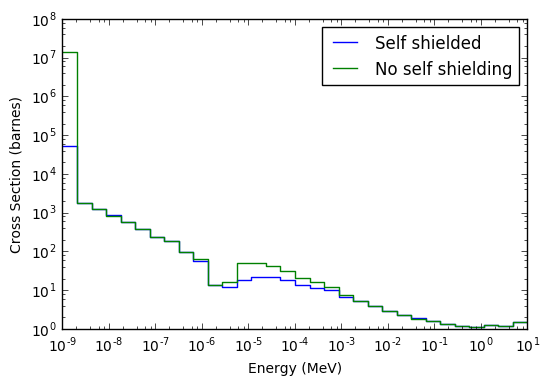
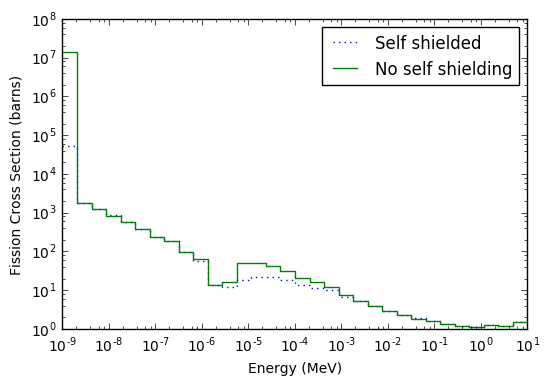
commiting revisions

diff --git a/XSGen.tex b/XSGen.tex
@@ -27,7 +27,7 @@
 \onehalfspacing
 
 \section{Introduction}
-Reactor simulation is an essential part of nuclear engineering. Modeling strategies can my categorized in three ways; low, medium, and high fidelity. Each of these models provides different benefits to a simulation but comes with costs to either accuracy or computational time.  
+Reactor simulation is an essential part of nuclear engineering. Modeling strategies may be categorized in three ways; low, medium, and high fidelity. Each of these models provides different benefits to a simulation but comes with costs to either accuracy or computational time.  
 
 Low fidelity models are those models that include no, or very limited,  physics at run time. These types of models work best for systems that have fixed behaviors. For example, a reactor during steady state operation. One type of low fidelity model is a recipe reactor. Here a recipe represents a predefined nuclide vector. These models use fixed input and output recipes. This means that they can simulate a reactor with a single computational operation. Some low fidelity models include interpolation techniques to build libraries on the fly. For example, interpolating between recipes for 3\% enriched fuel, and 4\% enriched fuel might be used to get a 3.5\% enriched fuel recipe. However, interpolating in this manner fails to directly capture any of the physical changes that might happen to the core by switching from either 3\% or 4\% enriched fuel to a 3.5\% fuel.
 
@@ -43,12 +43,12 @@ This work discusses a methodology, available in the XSgen software package, that
 
 XSgen couples several peices of software together to automate the generation of medium fidelity model datasets. The first piece of software is a high fidelity neutronics code. XSgen uses OpenMC as the software to perform this step. Flux is extracted from OpenMC\cite{class}. This is used by a cross section calculation software to generate one-group or multi-group cross-sections. This operation is performed by Pyne, the nuclear engineering toolkit\cite{pyne}. Finally, using either the one-group or multi-group cross-sections, a depletion solver is employed. Currently this role is satisfied by Origen2.2\cite{origen2}, and therefore one-group cross-sections are required.  
 
-This set of software is capable of providing the inputs that medium fidelity models could use; time dependent one group cross-sections, time dependent multi-group cross-sections, transmutation matricies, burnup rates,and  neutron production and destruction rates. XSgen stores the outputs of each of these software into a single large database, from there medium fidelity models can extract the information they need to derive a new dataset for use. This process is currently automated for only Bright-lite.
+This set of software is capable of providing the inputs that medium fidelity models could use; time dependent one-group cross-sections, time dependent multi-group cross-sections, transmutation matricies, burnup rates,and  neutron production and destruction rates. XSgen stores the outputs of each of these software into a single large database, from there medium fidelity models can extract the information they need to derive a new dataset for use. This process is currently automated for only Bright-lite.
 
 XSgen can also be used to set up more accurate comparisons between low fidelity model types, specifically recipe reactors, and medium fidelity reactor model types. This is made possible because XSgen can simulate a fuel bundle well past its effective lifetime in the core. The data generated by an XSgen run of this type contains enough information to build out an estimate of core isotopics at discharge using some reactor batch physics discussed later.
 
 \section{XSgen Workflow}
-The XSgen workflow is composed of three main parts as mentioned above; OpenMC, PyNE, Origen2.2. The first step is the simulation of the reactor core using a Monte Carlo neutron transport simulation. The main result of this is the flux spectrum. The spectrum is then collapsed with a cross section database and converted into a suite of one group cross sections for a reactor at a given time $t$ (days) after the reactor has started up. These one group cross sections are then used inside of
+The XSgen workflow is composed of three main parts as mentioned above; OpenMC, PyNE, Origen2.2. The first step is the simulation of the reactor core using a Monte Carlo neutron transport simulation. The main result of this is the flux spectrum. The spectrum is then collapsed with a cross section database and converted into a suite of one-group cross sections for a reactor at a given time $t$ (days) after the reactor has started up. These one-group cross sections are then used inside of
 a Bateman equation solve to calculate the burnup, neutron production, neutron destruction,
 and transmutation matrices. The value of $t$ is set by the user when XSgen is executed.
 The composition of the material at the end of the time step is then submitted back to
@@ -60,9 +60,9 @@ step specified is reached. This flow is displayed in Figure \ref{fig:flow}.
 \node (openmc) [process, below of = start]{OpenMC};
 \node (omcinput) [io, right of = openmc, xshift = 2cm]{OpenMC input file};
 \node (omcupdate) [process, left of = openmc, xshift = -3cm]{Update OpemMC material composition};
-\node (pyne) [process, below of = openmc]{Pyne};
+\node (pyne) [process, below of = openmc]{PyNE};
 \node (pynexs) [io, right of = pyne, xshift = 2cm]{Cross section data};
-\node (origen22) [process, below of = pyne]{Origen2.2};
+\node (origen22) [process, below of = pyne]{Origen 2.2};
 \node (compupdate) [process, left of = origen22, xshift = -3cm]{Update fuel composition};
 \node (timecheck) [decision, below of = origen22, yshift = -1.5cm]{End of simulated time?};
 \node (timeinc) [process, left of = timecheck, xshift = -3cm]{Increment time step};
@@ -87,15 +87,14 @@ step specified is reached. This flow is displayed in Figure \ref{fig:flow}.
 
 \subsection{OpenMC}
 OpenMC was used as the reference neutron transport software for modeling reactors.The software was chosen due to its availablity (it is open source), ability to quickly perform
-reactor oriented calculations\citeme [journalclubarticle], and the ability to compute scattering kernels. Currently, XSgen only requires the group flux values from OpenMC, and it extracts these each timestep. Input templates for OpenMC can be specified in the XSgen run control file. 
+reactor oriented calculations\cite{serpentvmonte}, and the ability to compute scattering kernels. Currently, XSgen only requires the group flux values from OpenMC, and it extracts these each timestep. Input templates for OpenMC can be specified in the XSgen run control file. 
 
 Standard templates may also be added to XSgen itself for use in future modeling. New templates can be added to the XSgen library of reactor types by creating a new input file for OpenMC that simulates the choice reactor type. Once added to the XSgen suite of reactors the type can be accessed repeatedly. 
 
 \subsection{PyNE}
 PyNE, a Nuclear Engineering toolkit library, is used to perform the group collapse
 from cross section databases down to the one-group or multi-group cross sections.
-PyNE is capable of reading in cross section data from a wide
-vareity of sources. It is able to synthesize cross section data - that may exist with
+PyNE is capable of reading in cross section data from both ACE\cite{ace} and ENDF\cite{endf} datasets. It is able to synthesize cross section data - that may exist with
 many different energy grids down to a single energy group structure specified by the user.
 
 The algorithm for collaspsing the cross sections, which PyNE performs in bulk, is as follows.
@@ -111,80 +110,76 @@ matrix is then defined by the relations below.
 
 \TODO{PEM CALCULATION}
 
-For the current use case of Bright-lite, this lower group structure is always a one group.
+For the current use case of Bright-lite, this lower group structure is always a one-group.
 However, XSgen may generate any energy group structure desired.
 Thus shifting a given group structure into a desired one using the PEM is simply a matter
 of taking the dot product of the PEM by the original group structure.
 
-\[ \vec{\phi_g} = P \cdot \vec{\phi_h} \]
+\[ \vec{\phi_g} = P \cdot \vec{\phi_h} \tag{1} \label{eq1} \] 
 
 Additionally, group-wise cross sections for each nuclide must be calculated. This is done using pointwise cross section data through the following method.
+Here $E_l$ and $E_u$ represent the lower and upper bounds of the energy group, $E_j$ represents the energy of a pointwise cross section in the data set, $\sigma(E_j)$ represents the cross section at energy $E_j$, and $\sigma_{r,g}^i$ represents a group wise cross section for nuclide i, and cross section for reaction r.
 
-$$\sigma_{i,g}^x = \frac{\sum_{E_j=E_l}^{E_j=E_u}0.5 \cdot[\sigma(E_j)+\sigma(E_{j+1})]\cdot[E_{j+1}-E_{j}]}{E_u-E_l}$$
+\[ \sigma_{r,g}^i = \frac{\sum_{E_j=E_l}^{E_j=E_u}0.5 \cdot[\sigma(E_j)+\sigma(E_{j+1})]\cdot[E_{j+1}-E_{j}]}{E_u-E_l} \tag{2} \label{eq2} \]
 
-Here $E_l$ and $E_u$ represent the lower and upper bounds of the energy group, $E_j$ represents the energy of a pointwise cross section in the data set, $\sigma(E_j)$ represents the cross section at energy $E_j$, and $\sigma_{i,g}^x$ represents a group wise cross section for isotope x, and cross section i.
 
-With the one group flux ($\phi$), and group-wise cross sections, it is possible to generate the one group, flux weighted, cross sections using the following equation.
+With the one-group flux ($\phi$), and group-wise cross sections, it is possible to generate the one-group, flux weighted, cross sections using the following equation.
 
-$$\sigma_{i}^x=\frac{[PEM∙(\vec{\sigma_{i,g}^x} \cdot \vec{\phi_g)}]}{\phi}$$
+\[ \sigma_{r}^i=\frac{[PEM \cdot (\vec{\sigma_{r,g}^i} \cdot \vec{\phi_g)}]}{\phi} \tag{3} \label{eq3} \]
 
-Here $\sigma_{i}^x$ represents the one group cross section of specific type i, for isotope x. This process is repeated for all isotopes and cross section, and those values are input into an Origin 2.2 TAPE9 file.
+Here $\sigma_{i}^x$ represents the one-group cross section of specific type r, for nuclide i. This process is repeated for all isotopes and cross section, and those values are input into an Origin 2.2 TAPE9\cite{origen2} file.
 
-Pyne will also allow the user to incorperate the effects of self-shielding into XSgen. It does this build building an energy dependent function of weights of each isotope. These weights scale the one group cross section depending on the density of the isotope represented by this cross section. The more delute a isotope is within a material composition, the lower the effective cross section of the isotope. This done using the following equation.
+Pyne will also allow the user to incorperate the effects of self-shielding into XSgen. It does this by building an energy dependent function of weights for each isotope. These weights scale the one-group cross section depending on the density of the isotope represented by this cross section. The more dilute a isotope is within a material composition, the lower the effective cross section of the isotope. This done using equation 4. Here all isotopes in the fuel are included in the set of $I$, and $J$ is the isotope in question. $N_j$ represents the number density of isotope $J$, and $\sigma_{t,n}^i$ represents a flux weighted total cross section of an isotope, i, in a specific energy bin, g.
 
-$$\omega_{y,n}=\frac{1}{\frac{\sum_{x\neq y}N^x * \sigma_{t,g}^x}{N^y}+\sigma_{t,g}^y}$$
+\[ \omega_{j,g}=\frac{1}{\frac{\sum_{i\neq j}N^i * \sigma_{t,g}^i}{N^j}+\sigma_{t,g}^j} \tag{4} \label{eq4} \]
 
-Here all isotopes in the fuel are included in the set of X, and Y is the isotope in question. $N_y$ represents the number density of isotope Y, and $\sigma_{t,n}^x$ represents a flux weighted total cross section of an isotope, x, in a specific energy bin, n.
+Therefore, similar to the mechanism described in the previous equation for calculating the one-group flux weighted cross sections, these are multigroup flux weighted cross sections. Because this data is pointwise, a pointwise flux is also required. OpenMC does not output a pointwise flux, so a pointwise flux from ENDF is used as a supplement. The equation for this flux is as follows.
 
-Therefore similar to the mechanism described in the previous equation for calculating the one group flux weighted cross sections, these are multigroup flux weighted cross sections. Because this data is pointwise, a pointwise flux is also required. OpenMC will not output a point wise flux, so a fundamental pointwise flux is used as a supplement. The equation for this flux is as follows.
-
-\large
 
 \[ \phi = \begin{cases}
-      \frac{2*\pi*\sqrt{E*1e6}*e^{\frac{-E*1e6}{kT}}}{(\pi*kT)^1.5} & E\leq 0.155e-6 \\
+      \frac{2\pi\sqrt{2E*1e6}}{(\pi kT)^{3/2}}e^{\frac{-E*1e6}{kT}} & E\leq 0.155e-6 \\
       \frac{1}{\sqrt{2E*1e6}} + 0.453e^{-1.036E}*\sinh{\sqrt{2.29E}} & E > 0.155e-6 \\
-   \end{cases}
+   \end{cases} \tag{5} \label{eq5} 
 \]
 
-Where $k$ is the Boltzman constant, $T$ is the temperature, and E is the energy. This formulation of the flux can be shown visually in Figure \ref{fig:therm}.
+Where $k$ is the Boltzman constant, $T$ is the temperature, and E is the energy. This formulation of the flux may be seen in Figure \ref{fig:therm}. This calculation is meant to approximate the flux spectrum of a LWR\cite{spectrum}.
 \begin{figure}[h]
   \center
-  \includegraphics[scale=0.8]{thermspec.png}
+  \includegraphics[scale=0.6]{thermspec.png}
   \caption{The effects of self-shielding on the cross sections for Uranium 235.}
   \label{fig:therm}
 \end{figure}
 
-The end result of all of this is a two-dimensional matrix of X (number of isotopes) by G (number of groups). The number in each entry of the matrix is the cross section weight for a specific isotope, in a specific energy group. These weights must be recalculated every time-step as the number densities of the isotopes in the fuel will charge as burnup increases.
+The end result Equation \ref{eq4} is a two-dimensional matrix of X (number of isotopes) by G (number of groups). The number in each entry of the matrix is the cross section weight for a specific isotope, in a specific energy group. These weights must be recalculated every time-step as the number densities of the nuclides in the fuel will charge as burnup increases.
 
-Note, that the pointwise cross sections used in these calculation must be provided by an outside source. PyNE is capable of reading in cross sections from several different cross section libraries including; ENDF, Cinder, EAF, and OpenMC. In this case the OpenMC cross sections were used.
+Note, that the pointwise cross sections used in these calculations must be provided by an outside source such as ENDF\cite{endf}, or OpenMC \cite{openmc}. In this case the OpenMC cross sections were used.
 
 The effects of self shielding on U235 inside of a fuel pellet can be seen in Figure \ref{fig:index}.
 \begin{figure}[h]
   \center
-  \includegraphics[scale=0.8]{index.png}
-  \caption{The effects of self-shielding on the fission cross section of Uranium 235 inside a fuel pellet.}
+  \includegraphics[scale=0.6]{index.png}
+  \caption{The effects of self-shielding on the fission cross section of Uranium 235 inside a fuel pellet at 3.5\%.}
   \label{fig:index}
 \end{figure}
 
 \subsection{Origin2.2}
-Once the TAPE9 has been constructed it is used to perform two types of burnup operations. The first is performed on the fuel. This includes the full list of nuclides currently in the fuel. Once this is done the nuclide vector at the end of the fuel burn is passed back to OpenMC to start the operation all over again.
+Once the TAPE9 has been constructed, it is used to perform two types of burnup operations. The first is performed on the fuel. This includes the full list of nuclides currently in the fuel. Once this is done the nuclide vector at the end of the fuel burn is passed back to OpenMC to start the operation all over again.
 
-The second calculation is used to build a dataset for a specific isotope. These runs take one kilogram of a pure isotope as the input fuel. At the end of the run, the burnup, neutron production/destruction, and transmutation matrix are all recorded. The isotopes of interest are chosen ahead of time by the user of the software, these are the nuclides that the user wishes to use as the input fuel for the reactor type/design that they are investigating. 
+The second calculation is used to build a dataset for a specific nuclide. These runs take one kilogram of a pure isotope as the input fuel. At the end of the run, the burnup, neutron production/destruction, and transmutation matrix are all recorded. The nuclides of interest are chosen ahead of time by the user of the software, these are the nuclides that the user wishes to use as the input fuel for the reactor type/design that they are investigating. 
 
 \subsection{XSgen as a recipe generator}
 Generating a recipe for a recipe reactor is done by simulating the full reactor lifetime. One technique is to use a high fidelity model to accurately model the burnup and transmutation of a reactor core from loading to discharge of a fuel assembly. 
 
-As stated previous, XSgen also tracks a kilogram of fuel through the reactor. When this fuel goes subcritical it represents a single batch reactor core going subcritical and needing to be refueled. However, it is possible to predict the burnup of a multi-batch core from the burnup of a single batch core. The following formula shows how this might be done. 
+As stated, XSgen also tracks a kilogram of fuel through the reactor. When this fuel becomes subcritical it represents a single batch reactor core becoming subcritical and requiring refueling. However, it is possible to predict the burnup of a multi-batch core from the burnup of a single batch core. The following formula shows how this might be done. 
 
-$$ BU_n = BU_1 \cdot (\frac{2n}{n+1}) $$
+\[  BU_n = BU_1 \cdot (\frac{2n}{n+1}) \tag{6} \label{eq6} \]
 
-Where n is the number of batches. This technique works primarily with reactor cores that have a solid fuel that undergoes fuel shuffling during a refueling operation. Using the predicted burnup of the fuel it is possible to extract the fluence, and therefore output composition, of the fuel at that burnup. 
+Where $n$ is the number of batches. This technique works primarily with reactor cores that have a solid fuel that undergoes fuel shuffling during a refueling operation. Using the predicted burnup of the fuel it is possible to extract the fluence, and therefore output composition, of the fuel at that burnup. 
 
 One thing to note about this technique is that it assumes that all batches are independent of each other. Additionally, this formula works best for reactors that have a decreasing criticality over a cycle. It would not work to provide a recipe for an accelerator driven system, or a breeder reactor. These systems aim to maintain a criticality of one as the fuel burns by breeding in new fissionable material. 
 
-\section{Results}
-\subsection{Generation results}
-Figures \ref{fig:u235xs} and \ref{fig:u238xs} show cross section behavior results from running XSgen for a light water reactor using the inputs found in Table \ref{tab:xsgenstats1}. The fuel used was 3.5\% enriched uranium oxide (UOX). The number of energy groups used for this analysis was 1000. The 
+\section{Cross section generation results}
+Figures \ref{fig:u235xs} and \ref{fig:u238xs} show cross section behavior results from running XSgen for a light water reactor using the inputs found in Table \ref{tab:xsgenstats1}. The fuel used was 3.5\% enriched uranium oxide (UOX). The number of energy groups used for this analysis was 1000, log spaced evenly between 0.001eV and 10MeV.
 
 \begin{table}[!htb]
 \centering
@@ -204,11 +199,11 @@ Coolant Density & 0.73 [g/cc]
 \end{table}
 
 \begin{figure}
-\caption{Cross Section Behavior of U235 in 3.5\% enriched LWR. The U235 is subjected to a constant flux of 3E14n/s/$cm^2$.}
+\caption{Cross Section Behavior of U235 in 3.5\% enriched LWR. The U235 is subjected to a constant flux of $3x10^14$n/s/$cm^2$.}
 \begin{tikzpicture}
 \begin{axis}[
     xlabel={Time (days)},
-    ylabel={Cross Section (barnes)},
+    ylabel={Cross Section (barns)},
     xmin=0, xmax=6000,
     ymin=0, ymax=70,
     xtick={0,1000, 2000, 3000, 4000, 5000, 6000},
@@ -247,11 +242,11 @@ Coolant Density & 0.73 [g/cc]
 \end{figure}
 
 \begin{figure}
-\caption{Cross Section Behavior of U238 in 3.5\% enriched LWR. The U238 is subjected to a constant flux of 3E14n/s/$cm^2$.}
+\caption{Cross Section Behavior of U238 in 3.5\% enriched LWR. The U238 is subjected to a constant flux of $3x10^14$n/s/$cm^2$.}
 \begin{tikzpicture}
 \begin{axis}[
     xlabel={Time (days)},
-    ylabel={Cross Section (barnes)},
+    ylabel={Cross Section (barns)},
     xmin=0, xmax=6000,
     ymin=0, ymax=1,
     xtick={0,1000, 2000, 3000, 4000, 5000, 6000},
@@ -288,7 +283,7 @@ Coolant Density & 0.73 [g/cc]
 \end{tikzpicture}
 \end{figure}
 
-The two figures (\ref{fig:U235xs}, \ref{fig:U238xs})the the cross section changes slowly over the course of operating the reactor. This is to be expected as the flux and number density of these two isotopes changes. U235 and U238 both undergo a net burn effect, which is why you see the behavior of the cross sections for these two isotopes change in similar ways over the course of the XSgen simulation. This behavior is inline with the expected behavior of cross sections within a light water reactor. 
+Figures (\ref{fig:U235xs}, \ref{fig:U238xs}) show how the the fission and ngamma cross sections change slowly over the course of operating the reactor. This is to be expected as the flux and number density of these two isotopes changes. U235 and U238 both undergo a net burn effect, which is why the behavior of the cross sections for these two isotopes change in similar ways over the course of the XSgen simulation. This behavior is consistent with the expected behavior of cross sections within a light water reactor. 
 
 Additionally the following figure shows the equalibrium flux of the reactors as determined by OpenMC. 
 Figure \ref{fig:32g} shows the fluxes of the same XSgen run using two different energy group structures; 32, and 1000.  
@@ -302,10 +297,10 @@ Figure \ref{fig:32g} shows the fluxes of the same XSgen run using two different 
 
 Figure \ref{fig:32g} shows the expected behavior between the two group structures. The larger group structure manages to catch the effects of some of stronger resonance groups as well as providing better detail to the lower group structures. 
 
-\subsection{LWR Benchmarking Cases}
-XSgen by itself can not directly be tested against operating reactor systems. It was originally designed to produce datasets a medium fidelity reactor model known as Bright-lite. Therefore, to benchmark XSgen it will be used in conjunction with Bright-lite to produce burnups and isotopes for several known reactor systems.  As Bright-lite has already been benchmarked several times using other datasets\cite{brightlite} it is assumed that the operations within Bright-lite are accurate and any deviations within the results come from XSgen.
+\section{LWR Benchmarking Cases}
+XSgen by itself can not directly be tested against operating reactor systems. As XSgen is meant to work with medium fidelity reactor models, it will be benchmarked in conjunction with Bright-lite to produce burnups and isotopes for several known reactor systems.  As Bright-lite has already been benchmarked several times using other datasets\cite{brightlite} it is assumed that the operations within Bright-lite are accurate and any deviations within the results come from XSgen.
 
-The most well studied reactors in the world are light water reactors and as such these will be used as benchmarking tools for XSgen. Primarily the cases represent a range of different enrichments in several light water reactors, comparing the results from XSgen/Bright-lite to recipes from VISION\cite{vision}. Additionally, the values will be tested against two cases modelling reactor startup behavior. 
+Primarily the cases represent a range of different enrichments in several light water reactors, comparing the results from XSgen/Bright-lite to recipes from VISION\cite{vision}. Additionally, the values will be tested against two cases modelling reactor startup behavior. 
 
 The XSgen/Bright-light will be benchmarked against VISION at 3.0, 3.5, and 4.0 percent enrichment. Three batch cores will be assumed for all the enrichment test cases.
 The two cases being used to test XSgen in startup behavior will be a 3.1$\%$ enriched light water reactor using four batches and a 3.6$\%$ enriched light water reactor using four batches. The cases will be compared using burnups, isotopic composition of fresh and used fuel.
@@ -318,7 +313,7 @@ The two cases being used to test XSgen in startup behavior will be a 3.1$\%$ enr
 \vspace{0.5em}
 \begin{tabular}{cccc}
  & \multicolumn{1}{c}{3.0\%} & \multicolumn{1}{c}{3.5\%} & \multicolumn{1}{c}{4.0\%} \\
-Isotope & Mass Fraction & Mass Fraction & Mass Fraction \\
+Nuclide & Mass Fraction & Mass Fraction & Mass Fraction \\
 \hline
 U235  & 6.75E-3 & 6.80E-3 & 6.95E-3 \\
 Pu238 & 1.23E-4 & 1.85E-4 & 2.52E-4 \\
@@ -340,7 +335,7 @@ Cm244 & 2.79E-5 & 4.38E-5 & 7.06E-5 \\
 \caption{A comparison of the output isotopics at equalibrium in the VISION fuel cycle simulator and the XSgen-Bright-lite system. Comparison is done as a percent difference.}
 \label{tab:xsgenresults}
 \vspace{0.5em}
-\begin{tabular}{c cc  cc  cc }
+\begin{tabular}{c cc | cc | cc }
  & \multicolumn{2}{c}{3.0\%} & \multicolumn{2}{c}{3.5\%} & \multicolumn{2}{c}{4.0\%} \\
 Isotope & Bright-lite & Difference & Bright-lite & Difference & Bright-lite & Difference  \\
 \hline
@@ -364,14 +359,13 @@ Table \ref{tab:xsgenresults} shows a very strong agreement between VISION and Br
 
 Am241 shows the largest deviations from the VISION data. There is more Am241 in every case than expected by the VISION results, and less of the species that are arise due to the presence of Am241; Am243, Cm242, Cm244. These results can be explained by a neutron absorption cross section error in Am241. If the neutron absorption cross section for Am241 is too low it can never transmute into Am242 and Am243, which in turn leads to an absence of curium isotopes.
 
+\section{LWR Startup Behavior Benchmarking}
 Additionally the Bright-lite model generated by XSgen was tested against a set of Nuclear Enegy Agency (NEA) results\cite{nea}. These results show the start up behavior of the same reaction using two different fuel enrichments. 
-
-\subsection{LWR Startup Behavior Benchmarking}
 \begin{table}[!htb]
 \centering
 \caption{NEA core discharge data for a 3.1\% enriched light water reactor with startup behavior.}
 \label{tab:b}
-\begin{tabular}{lrrrr}
+\begin{tabular}{lcccc}
 Batch & Burnup (MWd/kg) & U235 (\%) & Fissile Pu (\%) & Total Pu(\%) \\
 1 & 12.04 & 0.64 & 0.464 & 0.633 \\
 2 & 23.86 & 0.76 & 0.6 & 0.818 \\
@@ -385,7 +379,7 @@ Equil. & 33.00 & 0.85 & 0.688 & 0.943
 \centering
 \caption{The startup values and percent difference from the NEA data for the XSgen/Bright-lite reactor system.}
 \label{tab:c}
-\begin{tabular}{lrrrrrrrr}
+\begin{tabular}{c cc | cc | cc | cc}
  & \multicolumn{2}{p{1cm}}{Burnup (MWd/kgIHM)} & \multicolumn{2}{c}{U235 (\%)} & \multicolumn{2}{c}{Fissile Pu (\%)} & \multicolumn{2}{c}{Total Pu (\%)} \\
 Batch & Value & \%Diff & Value & \%Diff & Value & \%Diff & Value & \%Diff \\
 1 & 13.570 & 12.754 & 0.656 & 2.50 & 0.550 & 18.737 & 0.680 & 7.541 \\
@@ -397,9 +391,9 @@ Equal. & 33.020 & 0.060 & 0.855 & 0.588 & 0.700 & 1.833 & 0.951 & 0.820
 \end{tabular}
 \end{table}
 
-Table \ref{tab:b} shows how XSgen/Bright-lite compares to the NEA results. The equilibrium results here show good agreement with this case. As Bright-lite is often used to derive output isotopics from used fuels to be passed onto recycle scenarios, accurately predicting the equilibrium output isotopics is important.
+Table \ref{tab:b} shows how XSgen/Bright-lite compares to the NEA results. The equilibrium results here show good agreement with this case. As Bright-lite is often used to derive output isotopics from used fuels to be passed onto recycle scenarios, accurately predicting the equilibrium discharge is important.
 
-The results of the start up isotopics can be seen in Table \ref{tab:c}. There are some discrepencies in these results. First, the amount of plutonium generated within the first batch is significantly higher within Bright-lite compared to the NEA data. This trend only continues for the first two cycles. Due to the way Bright-lite operates, this is caused by the lower enriched batches within the startup core that do not have neutron poisons from fission products or other actinides. This means that there is a higher effective flux striking a high amount of U238 causing more generation of Pu239. The NEA benchmark has these low enrichment startup batches spread more evenly, Bright-lite simulates them as being the innermost section of the core. 
+The results of the start up nuclide loading can be seen in Table \ref{tab:c}. The first discrepency in these results is the amount of plutonium generated within the first batch is significantly higher within Bright-lite compared to the NEA data. This trend only continues for the first two cycles. Due to the way Bright-lite operates, this is caused by the lower enriched batches within the startup core that do not have neutron poisons from fission products or other actinides. The high amount of U238 in these initial batches causes a higher production rate of Pu239 over the NEA data. The NEA benchmark has these low enrichment startup batches spread more evenly, Bright-lite simulates them as being the inner most section of the core. 
 
 \begin{table}[!htb]
 \centering
@@ -421,7 +415,7 @@ Equil. & 42.50 & 0.81 & 0..827 & 1.223
 \centering
 \caption{XSgen / Bright-lite data for the 3.6\% enriched light water reactor start up behavior.}
 \label{tab:e}
-\begin{tabular}{lllllllll}
+\begin{tabular}{l ll | ll | ll | ll}
  & \multicolumn{2}{l}{Burnup (MWd/kgIHM)} & \multicolumn{2}{l}{U235 (\%)} & \multicolumn{2}{l}{Fissile Pu (\%)} & \multicolumn{2}{l}{Total Pu (\%)} \\
 Batch & Value & \%Diff & Value & \%Diff & Value & \%Diff & Value & \%Diff \\
 1 & 13.37 & -3.84 & 0.930 & 10.77 & 0.62 & 30.43 & 0.78 & 23.53 \\
@@ -436,15 +430,15 @@ Equal. & 42.32 & -0.43 & 0.81 & -0.44 & 0.79 & -4.54 & 1.11 & -9.42
 
 Table \ref{tab:d} and Table \ref{tab:e} are repeats of Table \ref{tab:b} and Table \ref{tab:c} for the 3.6$\%$ enriched light water reactor. Again, you see a similar trend in these two with the exception that the equilibrium results for the total amount of plutonium within the reactor is 9.2$\%$ lower in the Bright-lite model. The amount of fissile plutonium is also lower, but within acceptable bounds. The lower amount of fissile plutonium leads to less transmutations into the high order actinides.
 
-\subsection{MOX Case Benchmarking}
-Simply replicating the behavior of a light water reactor would not show off the full capabilities of the XSgen software. To demonstrate the capability of the system to extend to more advanced reactor types, XSgen will be used to generate a MOX fuel library for Bright-lite. It will then be used to simulate a single pass MOX reactor. In order to compare this on an apples to apples basis, the input fuel into the Bright-lite reactor will be exactly the same as that for a similar VISION reactor. This test will be able to demonstrate the flexibility of the combined XSgen/Bright-lite system that allows it to model advanced reactor types.
+\section{MOX Case Benchmarking}
+Simply replicating the behavior of a light water reactor would not demonstrate the full capabilities of the XSgen software. To display the capability of the system to extend to more advanced reactor types, XSgen will be used to generate a MOX fuel library for Bright-lite. It will then be used to simulate a single pass MOX reactor. In order to compare this on an apples to apples basis, the input fuel into the Bright-lite reactor will be exactly the same as that for a similar VISION reactor. This test will be able to demonstrate the flexibility of the combined XSgen/Bright-lite system that allows it to model advanced reactor types.
 
 \begin{table}[!htb]
 \centering
 \caption{Comparison of VISION and Bright-lite result from a single pass MOX reactor.}
 \label{tab:g}
 \begin{tabular}{lllll}
-Isotope & Input Composition & Vision & Bright-lite & Difference(\%) \\
+Nuclide & Input Composition & Vision & Bright-lite & Difference(\%) \\
 U234 & 2.20E-4 & 2.11E-4 & 2.00E-4 & -5.0\\
 U235 & 7.08E-3 & 4.05E-3 & 4.00E-3 & -1.2\\
 U236 & 5.28E-3 & 4.97E-3 & 5.60E-3 & 12.6\\
@@ -461,16 +455,16 @@ CM244 & - & 1.03E-3 & 9.84E-4 & -4.4
 \end{tabular}
 \end{table}
 
-The data in Table \ref{tab:g} shows that the results of Bright-lite given the new XSgen MOX reactor cross section fairs quite well compared to VISION. There are some outliers in the behaviors, specifically the higher order species and U236. The issues with the higher order actinides, Am241 and higher, most likely stem from the high amount of Pu240. This suggest that Pu240 is not transmuting into Pu241 at a high enough rate, which therefore lowers the equalibrium concentration of Pu241 and all isotopes that derive from it.
+The data in Table \ref{tab:g} shows that the results of Bright-lite given the new XSgen MOX reactor cross section fairs quite well compared to VISION. There are some outliers in the behaviors, specifically the higher order species and U236. The differences with the higher order actinides, Am241 and higher, most likely stem from the high amount of Pu240. This suggests that Pu240 is not transmuting into Pu241 at a high enough rate, which therefore lowers the equilibrium concentration of Pu241 and all isotopes that derive from it.
 
-One of the possible primary causes of this is uncertainity in the exact dimensions and behavior of the VISION MOX reactor. In order to get the most accurate results XSgen needs to know the specification of the MOX reactor. Instead for this work a generic 17x17 light water reactor core was chosen to use as a base for the XSgen run. If the input and output compositions generated for VISION were made from a reactor core of a different design it would result in slightly different cross sections and therefore different behavior.
+One of the possible causes of this is uncertainity in the exact dimensions and behavior of the VISION MOX reactor. In order to get the most accurate results XSgen needs to know the specification of the MOX reactor. Instead for this work a generic 17x17 light water reactor core was chosen to use as a base for the XSgen run. If the input and output compositions generated for VISION were made from a reactor core of a different design it would result in slightly different cross sections and therefore different behavior.
 
-\subsection{Recipe Reactor Generation}
+\section{Recipe Reactor Generation}
 As discussed above, XSgen can be used to create recipe reactors as well. The following results show a comparison between VISION and XSgen recipe reactors. These reactors use a 3.2\% U235 enriched fuel. The XSgen model assumes the information found in Table \ref{tab:xsgenstats} about the reactor. 
  
 \begin{table}[!htb]
 \centering
-\caption{Comparison of VISION and XSgen for the generation of a 33 MWd/kgIHM Burnup.}
+\caption{Specification forthe XSgen 33 MWd/kgIHM Burnup LWR.}
 \label{tab:xsgenstats}
 \begin{tabular}{ll}
 Input & Value \\
@@ -507,12 +501,14 @@ Cm244 & 2.22E-05 & 2.11E-05 & -5.11 \\
 \end{tabular}
 \end{table}
 
-The results in Table \ref{tab:recipe} show that XSgen is with 10\% error on all output isotopics for this reactor design. There are two possible causes of this issue. The first is the method used for extrapolating the data for a multi-batch core from a single batch core. Additionally, the design of the VISION reactor is unknown. This means that the reactor modeled with XSgen may not be a perfect one to one match with the reactor model used for VISION.  
+The results in Table \ref{tab:recipe} show that XSgen is with 10\% error on all output isotopics for this reactor design. A possible cause for this differnce is the method used for extrapolating the data for a multi-batch core from a single batch core. Additionally, the design of the VISION reactor is unknown. This means that the reactor modeled with XSgen may not be a perfect one to one match with the reactor model used for VISION.  
 
 \section{Conclusion}
-The work of nuclear reactor models is to provide researchers with insight into the behavior of reactors and by extension nuclear fuel cycles. Comparisons between these models is important to understanding how the choice of model might impact the accuracy of the results. Through this work XSgen has demonstrated that it is capable of providing a method of generating one-group cross sections and a number of reactor parameters using benchmarked software. This provides a path forward for generating datasets for medium and low fidelity models such that they may all be compared on an equal footing. This will allow researchers to understand how these models affect the results of fuel cycle analysis. 
+The work of nuclear reactor models is to provide designers and researchers with insight into the behavior of reactors and by extension nuclear fuel cycles. Comparisons between these models is important to understanding how the choice of model might impact the accuracy of the results. Through this work XSgen has demonstrated that it is capable of providing a method of generating one-group cross sections and a number of reactor parameters to be used in benchmark campaigns. This provides a path forward for generating datasets for medium and low fidelity models such that they may all be compared on an equal footing. This will allow researchers to understand how these models affect the results of fuel cycle analysis. 
 
-Additionally XSgen provides a method for automating the generation of reactor types for medium fidelity models. The work here linking XSgen to the Bright-lite reactor model shows that XSgen can be used to expand the set of reactor types and reactor designs (i.e. varied burnups, enrichment, or core structure) that Bright-lite has access to. Through this coupling Bright-lite can be used to quickly example fuel cycles with new or interesting reactor technologies. Future work should aim to expand this coupling to include other medium fidelity models as well.
+Additionally XSgen provides a method for automating the generation of reactor types for medium fidelity models. The work here linking XSgen to the Bright-lite reactor model shows that XSgen can be used to expand the set of reactor types and reactor designs (i.e. varied burnups, enrichment, or core structure) that Bright-lite has access to. Through this coupling Bright-lite can be used to quickly example fuel cycles with new or interesting reactor technologies.
+
+Future work should aim to expand this coupling to include other medium fidelity models such as CLASS. This will allow for comparisons between medium fidelity models to be performed using the same source for datasets. Additionally, XSgen currently does not have a template for fast reactor designs or accelerator driven systems. If XSgen is going to provide the data for benchmarking campaigns in the future the capability to simulate these reactor technologies are will be necessary. 
 
 
 \bibliography{xsgen} 
